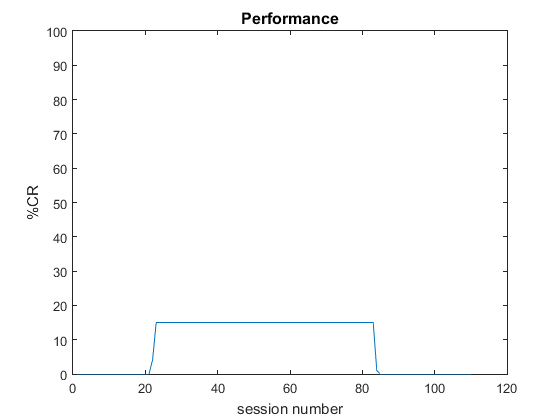
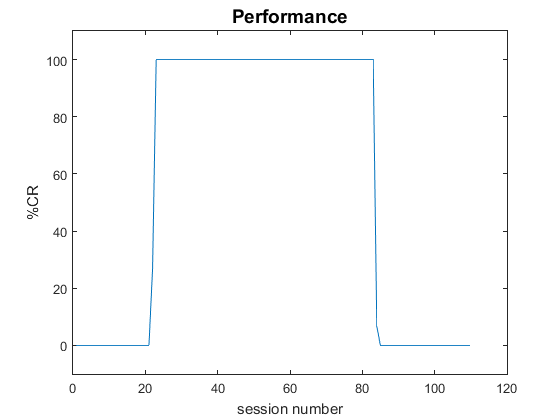
testing

diff --git a/lab4/model/RunModelMauk.m b/lab4/model/RunModelMauk.m
@@ -1,24 +1,20 @@
+
  %% clears previous run data and figures
 %clear all
 %close all
-%% parameters (free variables/ independant variables)
-% time-step parameters (have to be integers)------------------------
-init_length = 3;        % the inital time period that the cerebellum does not receive any input
-CS_length = 11;         % the length of CS (4-14)
-US_length = 3;          % US_lenght < CS_length (12-14)
-end_length = 10;        % the final time period that the cerebellum does not receive any input
-                          % this parameter is needed for plotting because the activities 
-                          % of neurons extends beyond the time CS and US occur
-PTB_time = CS_length+init_length-US_length; %time that would imply CR success for motor activity measurement
-sessions = 20;         % the number of training sessions
-trialsPerSession = 100; % the number of trials per session
-CS_on = 0;              % 0: off; 1: on
-US_on = 0;              % 0: off; 1: on
-trace_on = 0;           % 0: trace conditioning is off, a value greater than 0 invokes the trace  
-                          % conditioning model, which requires the hippocampus
-learning = 1;
-extinction = 2001;    % Parameters to change on which trial CS/US presentation is switched on/off  
-relearning = 50001;      % to test for extinction and relearning.  
+init_length = 9;        % No US or CS input (Prevents out of bounds errors 
+                         % during callbacks)
+CS_length = 10;         % Duration of CS input
+US_length = 15;         % Duration of US input  
+end_length = 10;        % No CS or US input, used for plotting
+sessions = 110;         % Number of training sessions
+trialsPerSession = 15;  % Number of trials per session
+CS_on = 0;              % Determines if trial will have CS input            
+US_on = 0;              % Determines if trial will have US input
+trace = 1;             % Trace period 
+learning = 1;           % Trial to start learning
+extinction = 1201;      % Trial to start extinction
+relearning = 20001;     % Trial to start learning after extinction  
                            
 %% constants
 % time constants

diff --git a/lab4/model/original.m b/lab4/model/original.m
@@ -1,3 +1,4 @@
+
 %%  Model For Cerebellum Trace Conditioning with Appropriate Timing
  %  Includes updated spike timing rules
  %  Includes published timing data for more realistic delays
@@ -50,8 +51,9 @@ blink_threshold = .3; % Level of muscle activity needed to trigger blink
 
 %% Initializations
 % Setup US, CS, and time vectors
-[CS, US, timesteps] = CSUS(init_length, CS_length, US_length, ...
-    end_length, CS_on, US_on, trace);
+[CS, US] =CSUS(init_length,CS_length,US_length,end_length,CS_on,US_on,trace);
+timesteps = length(CS);
+
 totalTrials = sessions*trialsPerSession;    % Total training trials
 PTB_time = timesteps-end_length-US_length;  % Timestep before US onset,
                                              % required for properly timed 
@@ -127,15 +129,18 @@ for trial=1:totalTrials
     if trial == learning
         US_on = 1;
         CS_on = 1;
-        [CS, US, timesteps] = CSUS(init_length,CS_length,US_length,end_length,CS_on,US_on,trace);
+        [CS, US] = CSUS(init_length,CS_length,US_length,end_length,CS_on,US_on,trace);
+        timesteps = length(CS);
     end
     if trial == extinction
         US_on = 0;
-        [CS, US, timesteps] = CSUS(init_length,CS_length,US_length,end_length,CS_on,US_on,trace);
+        [CS, US] = CSUS(init_length,CS_length,US_length,end_length,CS_on,US_on,trace);
+        timesteps = length(CS);
     end
     if trial == relearning
         US_on = 1;
-        [CS, US, timesteps] = CSUS(init_length,CS_length,US_length,end_length,CS_on,US_on,trace);
+        [CS, US] = CSUS(init_length,CS_length,US_length,end_length,CS_on,US_on,trace);
+        timesteps = length(CS);
     end
     
     % Cf oscillations
